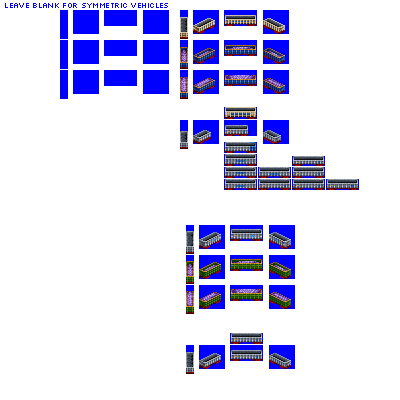
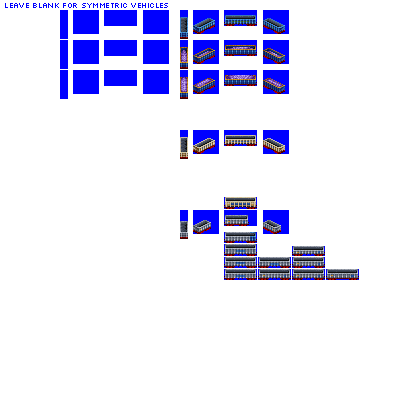
Change: strip out some aggregate dump car versions, preparatory to reimplementing them as sprite recolours

Changed region(s): [[0.45, 0.27, 0.9, 0.78], [0.45, 0.81, 0.75, 0.93], [0.45, 0.03, 0.72, 0.09]]

diff --git a/src/train.py b/src/train.py
@@ -4323,61 +4323,23 @@ class DumpCarAggregateConsistType2(DumpCarConsistBase):
         ]
         self._joker = True
         # Graphics configuration
-        # minimalist use of CC, so only one livery
         self.gestalt_graphics.liveries = [
+            global_constants.freight_wagon_liveries["RANDOM_FROM_CONSIST_LIVERIES_1"],
+            global_constants.freight_wagon_liveries["RANDOM_FROM_CONSIST_LIVERIES_2"],
+            global_constants.freight_wagon_liveries["RANDOM_FROM_CONSIST_LIVERIES_7"],
+            global_constants.freight_wagon_liveries["RANDOM_FROM_CONSIST_LIVERIES_3"],
             global_constants.freight_wagon_liveries["COMPANY_COLOUR_USE_WEATHERING"],
-        ]
-
-
-class DumpCarAggregateConsistType3(DumpCarConsistBase):
-    """
-    Aggregate Car.
-    Same as standard dump car, but different appearance and default cargos.
-    """
-
-    def __init__(self, **kwargs):
-        self.base_id = "aggregate_dump_car_type_3"
-        super().__init__(**kwargs)
-        self.default_cargos = polar_fox.constants.default_cargos["dump_aggregates"]
-        # buyable variant groups are created post-hoc and can group across subclasses
-        # any buyable variants (liveries) within the subclass will be automatically added to the group
-        self.use_named_buyable_variant_group = "wagon_group_aggregate_dump_cars"
-        # don't include aggregate wagons in randomised lists, they don't look good
-        self.randomised_candidate_groups = [
-            "aggregate_dump_car_randomised",
-            "bulk_car_box_randomised",
-        ]
-        self._joker = True
-        # Graphics configuration
-        # minimalist use of CC, so only one livery
-        self.gestalt_graphics.liveries = [
-            global_constants.freight_wagon_liveries["COMPANY_COLOUR_USE_WEATHERING"],
-        ]
-
-
-class DumpCarAggregateConsistType4(DumpCarConsistBase):
-    """
-    Aggregate Car.
-    Same as standard dump car, but different appearance and default cargos.
-    """
-
-    def __init__(self, **kwargs):
-        self.base_id = "aggregate_dump_car_type_4"
-        super().__init__(**kwargs)
-        self.default_cargos = polar_fox.constants.default_cargos["dump_aggregates"]
-        # buyable variant groups are created post-hoc and can group across subclasses
-        # any buyable variants (liveries) within the subclass will be automatically added to the group
-        self.use_named_buyable_variant_group = "wagon_group_aggregate_dump_cars"
-        # don't include aggregate wagons in randomised lists, they don't look good
-        self.randomised_candidate_groups = [
-            "aggregate_dump_car_randomised",
-            "bulk_car_box_randomised",
-        ]
-        self._joker = True
-        # Graphics configuration
-        # minimalist use of CC, so only one livery
-        self.gestalt_graphics.liveries = [
-            global_constants.freight_wagon_liveries["COMPANY_COLOUR_USE_WEATHERING"],
+            global_constants.freight_wagon_liveries[
+                "COMPLEMENT_COMPANY_COLOUR_USE_WEATHERING"
+            ],
+            global_constants.freight_wagon_liveries["FREIGHT_RUBY"],
+            global_constants.freight_wagon_liveries["FREIGHT_BAUXITE"],
+            global_constants.freight_wagon_liveries["FREIGHT_GREY"],
+            global_constants.freight_wagon_liveries["FREIGHT_NIGHTSHADE"],
+            global_constants.freight_wagon_liveries["FREIGHT_GREMLIN_GREEN"],
+            global_constants.freight_wagon_liveries["FREIGHT_OCHRE"],
+            global_constants.freight_wagon_liveries["FREIGHT_SAND"],
+            global_constants.freight_wagon_liveries["FREIGHT_TEAL"],
         ]
 
 
@@ -4389,32 +4351,6 @@ class DumpCarAggregateConsistType5(DumpCarConsistBase):
 
     def __init__(self, **kwargs):
         self.base_id = "aggregate_dump_car_type_5"
-        super().__init__(**kwargs)
-        self.default_cargos = polar_fox.constants.default_cargos["dump_aggregates"]
-        # buyable variant groups are created post-hoc and can group across subclasses
-        # any buyable variants (liveries) within the subclass will be automatically added to the group
-        self.use_named_buyable_variant_group = "wagon_group_aggregate_dump_cars"
-        # don't include aggregate wagons in randomised lists, they don't look good
-        self.randomised_candidate_groups = [
-            "aggregate_dump_car_randomised",
-            "bulk_car_box_randomised",
-        ]
-        self._joker = True
-        # Graphics configuration
-        # minimalist use of CC, so only one livery
-        self.gestalt_graphics.liveries = [
-            global_constants.freight_wagon_liveries["COMPANY_COLOUR_USE_WEATHERING"],
-        ]
-
-
-class DumpCarAggregateConsistType6(DumpCarConsistBase):
-    """
-    Aggregate Car.
-    Same as standard dump car, but different appearance and default cargos.
-    """
-
-    def __init__(self, **kwargs):
-        self.base_id = "aggregate_dump_car_type_6"
         super().__init__(**kwargs)
         self.default_cargos = polar_fox.constants.default_cargos["dump_aggregates"]
         # buyable variant groups are created post-hoc and can group across subclasses

diff --git a/src/vehicles/pony/aggregate_dump_cars_type_2_pony.py b/src/vehicles/pony/aggregate_dump_cars_type_2_pony.py
@@ -2,15 +2,16 @@ from train import DumpCarAggregateConsistType2, FreightCar
 
 
 def main(roster_id, **kwargs):
+
     # --------------- standard gauge ---------------------------------------------------------------
 
     consist = DumpCarAggregateConsistType2(
         roster_id=roster_id,
         roster_id_providing_module=kwargs["roster_id_providing_module"],
-        base_numeric_id=35080,
+        base_numeric_id=35350,
         gen=1,
         subtype="A",
-        sprites_complete=True,
+        sprites_complete=False,
     )
 
     consist.add_unit(type=FreightCar, chassis="2_axle_gapped_16px")
@@ -20,10 +21,10 @@ def main(roster_id, **kwargs):
     consist = DumpCarAggregateConsistType2(
         roster_id=roster_id,
         roster_id_providing_module=kwargs["roster_id_providing_module"],
-        base_numeric_id=35090,
+        base_numeric_id=35370,
         gen=3,
         subtype="A",
-        sprites_complete=True,
+        sprites_complete=False,
     )
 
     consist.add_unit(type=FreightCar, chassis="2_axle_gapped_16px")
@@ -31,10 +32,10 @@ def main(roster_id, **kwargs):
     consist = DumpCarAggregateConsistType2(
         roster_id=roster_id,
         roster_id_providing_module=kwargs["roster_id_providing_module"],
-        base_numeric_id=35100,
+        base_numeric_id=35390,
         gen=3,
         subtype="B",
-        sprites_complete=True,
+        sprites_complete=False,
     )
 
     consist.add_unit(type=FreightCar, chassis="4_axle_gapped_24px")
@@ -42,10 +43,10 @@ def main(roster_id, **kwargs):
     consist = DumpCarAggregateConsistType2(
         roster_id=roster_id,
         roster_id_providing_module=kwargs["roster_id_providing_module"],
-        base_numeric_id=35110,
+        base_numeric_id=35410,
         gen=4,
         subtype="A",
-        sprites_complete=True,
+        sprites_complete=False,
     )
 
     consist.add_unit(type=FreightCar, chassis="2_axle_gapped_16px")
@@ -53,10 +54,10 @@ def main(roster_id, **kwargs):
     consist = DumpCarAggregateConsistType2(
         roster_id=roster_id,
         roster_id_providing_module=kwargs["roster_id_providing_module"],
-        base_numeric_id=35120,
+        base_numeric_id=35430,
         gen=4,
         subtype="B",
-        sprites_complete=True,
+        sprites_complete=False,
     )
 
     consist.add_unit(type=FreightCar, chassis="4_axle_sparse_24px")
@@ -64,10 +65,10 @@ def main(roster_id, **kwargs):
     consist = DumpCarAggregateConsistType2(
         roster_id=roster_id,
         roster_id_providing_module=kwargs["roster_id_providing_module"],
-        base_numeric_id=34830,
+        base_numeric_id=35450,
         gen=5,
         subtype="A",
-        sprites_complete=True,
+        sprites_complete=False,
     )
 
     consist.add_unit(type=FreightCar, chassis="2_axle_gapped_greebled_16px")
@@ -75,10 +76,10 @@ def main(roster_id, **kwargs):
     consist = DumpCarAggregateConsistType2(
         roster_id=roster_id,
         roster_id_providing_module=kwargs["roster_id_providing_module"],
-        base_numeric_id=20380,
+        base_numeric_id=35470,
         gen=5,
         subtype="B",
-        sprites_complete=True,
+        sprites_complete=False,
     )
 
     consist.add_unit(type=FreightCar, chassis="4_axle_sparse_greebled_24px")
@@ -86,10 +87,10 @@ def main(roster_id, **kwargs):
     consist = DumpCarAggregateConsistType2(
         roster_id=roster_id,
         roster_id_providing_module=kwargs["roster_id_providing_module"],
-        base_numeric_id=20390,
+        base_numeric_id=32020,
         gen=5,
         subtype="C",
-        sprites_complete=True,
+        sprites_complete=False,
     )
 
     consist.add_unit(type=FreightCar, chassis="4_axle_sparse_greebled_32px")

diff --git a/src/rosters/pony.py b/src/rosters/pony.py
@@ -231,10 +231,7 @@ wagon_module_names_with_roster_ids = {
     "aggregate_dump_cars_randomised": "pony",
     "aggregate_dump_cars_type_1": "pony",
     "aggregate_dump_cars_type_2": "pony",
-    "aggregate_dump_cars_type_3": "pony",
-    "aggregate_dump_cars_type_4": "pony",
     "aggregate_dump_cars_type_5": "pony",
-    "aggregate_dump_cars_type_6": "pony",
     "aggregate_hopper_cars_randomised": "pony",
     "aggregate_hopper_cars_type_1": "pony",
     "aggregate_hopper_cars_type_2": "pony",

diff --git a/src/vehicles/pony/aggregate_dump_cars_randomised_pony.py b/src/vehicles/pony/aggregate_dump_cars_randomised_pony.py
@@ -2,6 +2,7 @@ from train import DumpCarAggregateRandomisedConsist, FreightCar
 
 
 def main(roster_id, **kwargs):
+    """
     # --------------- standard gauge ---------------------------------------------------------------
     consist = DumpCarAggregateRandomisedConsist(
         roster_id=roster_id,
@@ -90,3 +91,4 @@ def main(roster_id, **kwargs):
     )
 
     consist.add_unit(type=FreightCar, chassis="empty_32px")
+    """

diff --git a/src/global_constants.py b/src/global_constants.py
@@ -87,10 +87,7 @@ wagon_module_name_stems = [
     "dump_cars_randomised",
     "aggregate_dump_cars_type_1",
     "aggregate_dump_cars_type_2",
-    "aggregate_dump_cars_type_3",
-    "aggregate_dump_cars_type_4",
     "aggregate_dump_cars_type_5",
-    "aggregate_dump_cars_type_6",
     "aggregate_dump_cars_randomised",
     "ore_dump_cars",
     "scrap_metal_cars",
